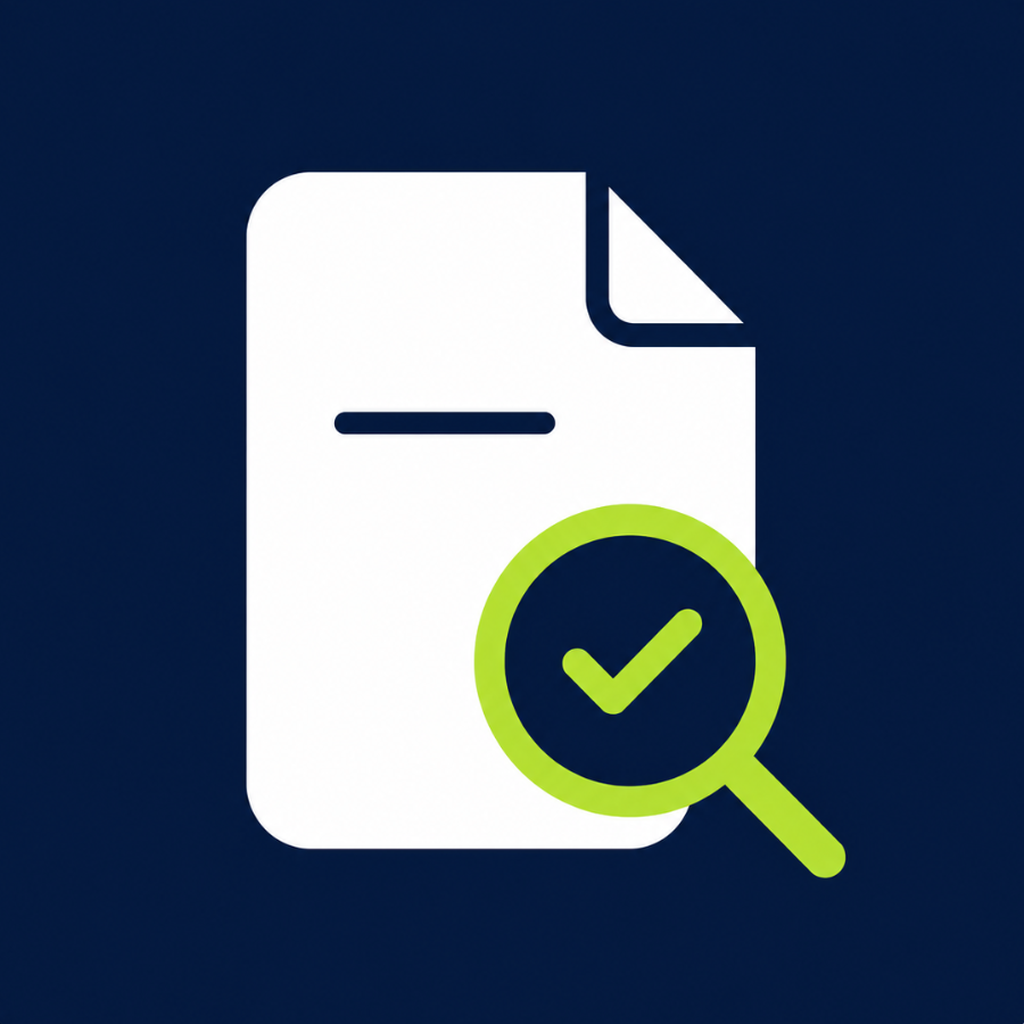
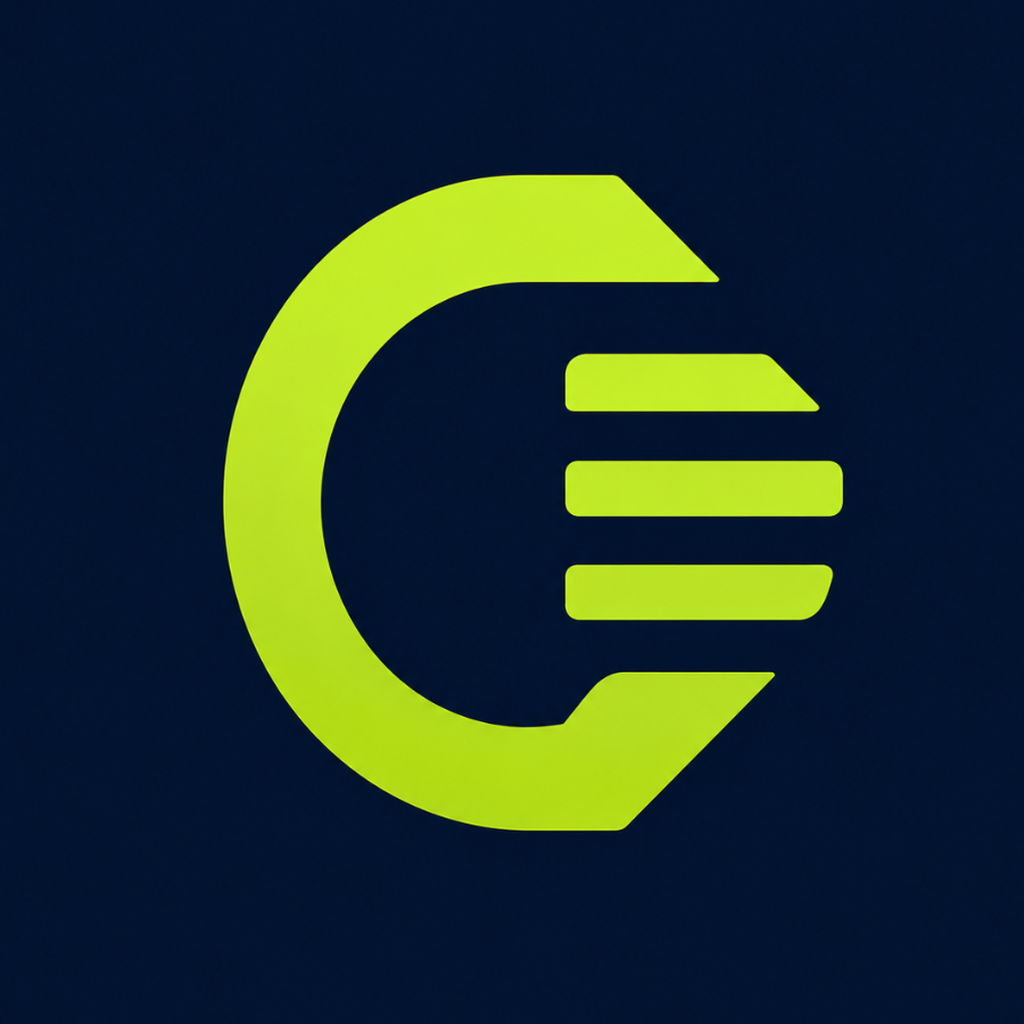
Brand v2: the lime C-and-fine-print mark replaces the magnifier everywhere
Owner supplied a new master (brand/New Logo.png, now the canonical
brand/contraya-logo.png; v1 stays in git history): a lime C wrapping three
fine-print text bars on deep navy. All eight outputs regenerated by
brand/generate-icons.py and visually verified, including the native
AppIcon after a fresh prebuild.

The v2 field is a darker navy, so per the README's change-together rule the
brand navy moved #04193E -> #01132F in all four mirrors: the generator
constant (resampled from the master's border), app.config splash and
Android adaptive backgrounds, index.html theme-color, and the web manifest.
Web icon cache-busts bumped to ?v=2. The logo's lime (~#BEE424) is yellower
than the UI brand token (#A3E635) on purpose; README documents why the UI
must not be re-tinted casually.

Landing builds clean; typecheck and 125 tests green.

diff --git a/index.html b/index.html
@@ -3,10 +3,10 @@
   <head>
     <meta charset="UTF-8" />
     <!-- ?v= busts the browser favicon cache; bump on every logo change. -->
-    <link rel="icon" href="/icons/favicon.png?v=1" />
-    <link rel="apple-touch-icon" href="/icons/apple-touch-icon.png?v=1" />
+    <link rel="icon" href="/icons/favicon.png?v=2" />
+    <link rel="apple-touch-icon" href="/icons/apple-touch-icon.png?v=2" />
     <meta name="viewport" content="width=device-width, initial-scale=1.0, viewport-fit=cover" />
-    <meta name="theme-color" content="#04193E" />
+    <meta name="theme-color" content="#01132F" />
     <meta name="apple-mobile-web-app-capable" content="yes" />
     <meta name="apple-mobile-web-app-status-bar-style" content="black-translucent" />
     <meta name="apple-mobile-web-app-title" content="Contraya" />
@@ -20,13 +20,13 @@
     <meta property="og:title" content="Contraya - Your contracts, in plain English" />
     <meta property="og:description" content="Contraya reads the contracts you sign, puts them in plain English, and reminds you before payments, renewals, and notice deadlines." />
     <meta property="og:url" content="https://usecontraya.com/" />
-    <meta property="og:image" content="https://usecontraya.com/og-image.png?v=1" />
+    <meta property="og:image" content="https://usecontraya.com/og-image.png?v=2" />
     <meta property="og:image:width" content="1200" />
     <meta property="og:image:height" content="630" />
     <meta name="twitter:card" content="summary_large_image" />
     <meta name="twitter:title" content="Contraya - Your contracts, in plain English" />
     <meta name="twitter:description" content="Contraya reads the contracts you sign, puts them in plain English, and reminds you before payments, renewals, and notice deadlines." />
-    <meta name="twitter:image" content="https://usecontraya.com/og-image.png?v=1" />
+    <meta name="twitter:image" content="https://usecontraya.com/og-image.png?v=2" />
 
     <link rel="preconnect" href="https://fonts.googleapis.com" />
     <link rel="preconnect" href="https://fonts.gstatic.com" crossorigin />

diff --git a/mobile/app.config.ts b/mobile/app.config.ts
@@ -37,7 +37,7 @@ export default ({ config }: ConfigContext): ExpoConfig => ({
     package: 'com.contraya.app',
     adaptiveIcon: {
       foregroundImage: './assets/adaptive-icon.png',
-      backgroundColor: '#04193E',
+      backgroundColor: '#01132F',
     },
   },
   plugins: [
@@ -47,7 +47,7 @@ export default ({ config }: ConfigContext): ExpoConfig => ({
       {
         image: './assets/splash-icon.png',
         resizeMode: 'contain',
-        backgroundColor: '#04193E',
+        backgroundColor: '#01132F',
       },
     ],
     [

diff --git a/brand/generate-icons.py b/brand/generate-icons.py
@@ -8,7 +8,9 @@ from PIL import Image, ImageDraw
 import os
 
 SRC = 'brand/contraya-logo.png'
-NAVY = (0x04, 0x19, 0x3E)
+# Sampled from the master's border (v2 C-mark, 2026-07-30). If the logo's
+# field ever changes, resample and update the four mirrors listed in README.
+NAVY = (0x01, 0x13, 0x2F)
 L = Image.LANCZOS
 
 src = Image.open(SRC).convert('RGB')

diff --git a/brand/README.md b/brand/README.md
@@ -3,10 +3,11 @@
 Source art for Contraya. Every web and app icon is generated from the master
 logo in this folder, so this is the single source of truth for the brand mark.
 
-## STATUS: logo landed 2026-07-29, all icons regenerated
+## STATUS: v2 mark landed 2026-07-30, all icons regenerated
 
-`contraya-logo.png` is the master mark: a white document with a lime
-magnifying glass and a check, on a deep navy field. Every icon in the repo is
+`contraya-logo.png` is the master mark: a lime "C" wrapping three fine-print
+text bars, on a deep navy field (v2, replaced the document-and-magnifier v1
+from 2026-07-29; v1 lives in git history). Every icon in the repo is
 generated from it, so it is the single source of truth for the brand.
 
 Source file facts worth knowing before you regenerate:
@@ -15,13 +16,19 @@ Source file facts worth knowing before you regenerate:
   `generate-icons.py` upscales to 1024 with Lanczos. At 1.14x on flat vector
   style art this is not visible, but **if you ever re-export from the design
   tool, export at 1024 or larger** and the upscale stops mattering.
-- **The navy field is `#04193E`.** That exact value is mirrored in
-  `mobile/app.config.ts` (splash + Android adaptive background),
+- **The navy field is `#01132F`** (v2; v1 was `#04193E`). That exact value is
+  mirrored in `mobile/app.config.ts` (splash + Android adaptive background),
   `public/manifest.webmanifest`, and `index.html`. If the logo's navy ever
-  changes, change all four together or the splash will show a seam.
-- **The magnifier's inner circle is the same navy as the field.** A naive
-  colour-key would punch a hole straight through it, so the generator floods
-  inward from the border instead. Keep that if you rewrite it.
+  changes, resample the border (the generator has the constant) and change
+  all four together or the splash will show a seam.
+- **The generator floods transparency inward from the border** rather than
+  colour-keying, so navy enclosed by artwork survives. The v2 mark's
+  bar gaps connect to the outer field through the C's opening, so they knock
+  out correctly. Keep the flood if you rewrite it.
+- **The logo's lime (~#BEE424) is yellower than the UI token `brand`
+  (#A3E635).** Deliberate non-issue: UI lime was chosen by contrast
+  measurement (see `mobile/src/theme/colors.ts`); do not re-tint the app to
+  match the logo without redoing that math.
 
 ## Regenerating
 

diff --git a/STATUS.md b/STATUS.md
@@ -783,7 +783,15 @@ describe-never-advise). claude-sonnet-5 via the Claude API stays.
     no attachment → expect a bounce.
 11. **Trademark/handles** (from the plan): USPTO first-pass for "Contraya",
     social handles. Runners-up if a conflict surfaces: Firmaya, Inkaya, Duly.
-12. **Logo: RESOLVED 2026-07-29.** The official mark (white document, lime
+12. **Logo: v2 mark landed 2026-07-30** (owner-supplied lime C wrapping
+    fine-print bars; replaced the document-and-magnifier v1 below). All nine
+    outputs regenerated, brand navy re-aligned `#04193E` → `#01132F`
+    (generator constant + app.config splash/adaptive + index.html
+    theme-color + manifest, per the README's change-together rule), web
+    icon cache-bust bumped to `?v=2`, prebuild re-run and the native
+    AppIcon visually verified as the new mark. Same 900x900 upscale caveat
+    as v1. History of v1 follows:
+    **v1: RESOLVED 2026-07-29.** The official mark (white document, lime
     magnifier and check, on `#04193E` navy) is committed at
     `brand/contraya-logo.png`, and all nine icons were regenerated from it by
     `brand/generate-icons.py`: `mobile/assets/{icon,adaptive-icon,splash-icon}.png`,

diff --git a/mobile/STORE_LISTING.md b/mobile/STORE_LISTING.md
@@ -23,10 +23,9 @@ actually submitting, roughly in the order they bite:
    and `usecontraya.com` are both used in this listing, and the site has never
    been deployed (STATUS.md checklist item 9). A 404 there is a rejection.
    This is the first domino: deploy the landing, then point the domain.
-2. **The app icon.** RESOLVED 2026-07-29: the tree now carries the real
-   Contraya mark (navy/lime document + magnifier), 1024x1024 opaque,
-   regenerated across app and web by `brand/generate-icons.py`. See
-   `brand/README.md`.
+2. **The app icon.** RESOLVED (v2 mark, 2026-07-30): the tree carries the
+   lime C-and-fine-print mark on navy, 1024x1024 opaque, regenerated across
+   app and web by `brand/generate-icons.py`. See `brand/README.md`.
 3. **Screenshots** (section 7). Cannot be captured until the app runs, and
    the palette just changed to lime, so any earlier captures are stale.
 4. **The price must be real.** The description below states $7.99 / $49.99.
